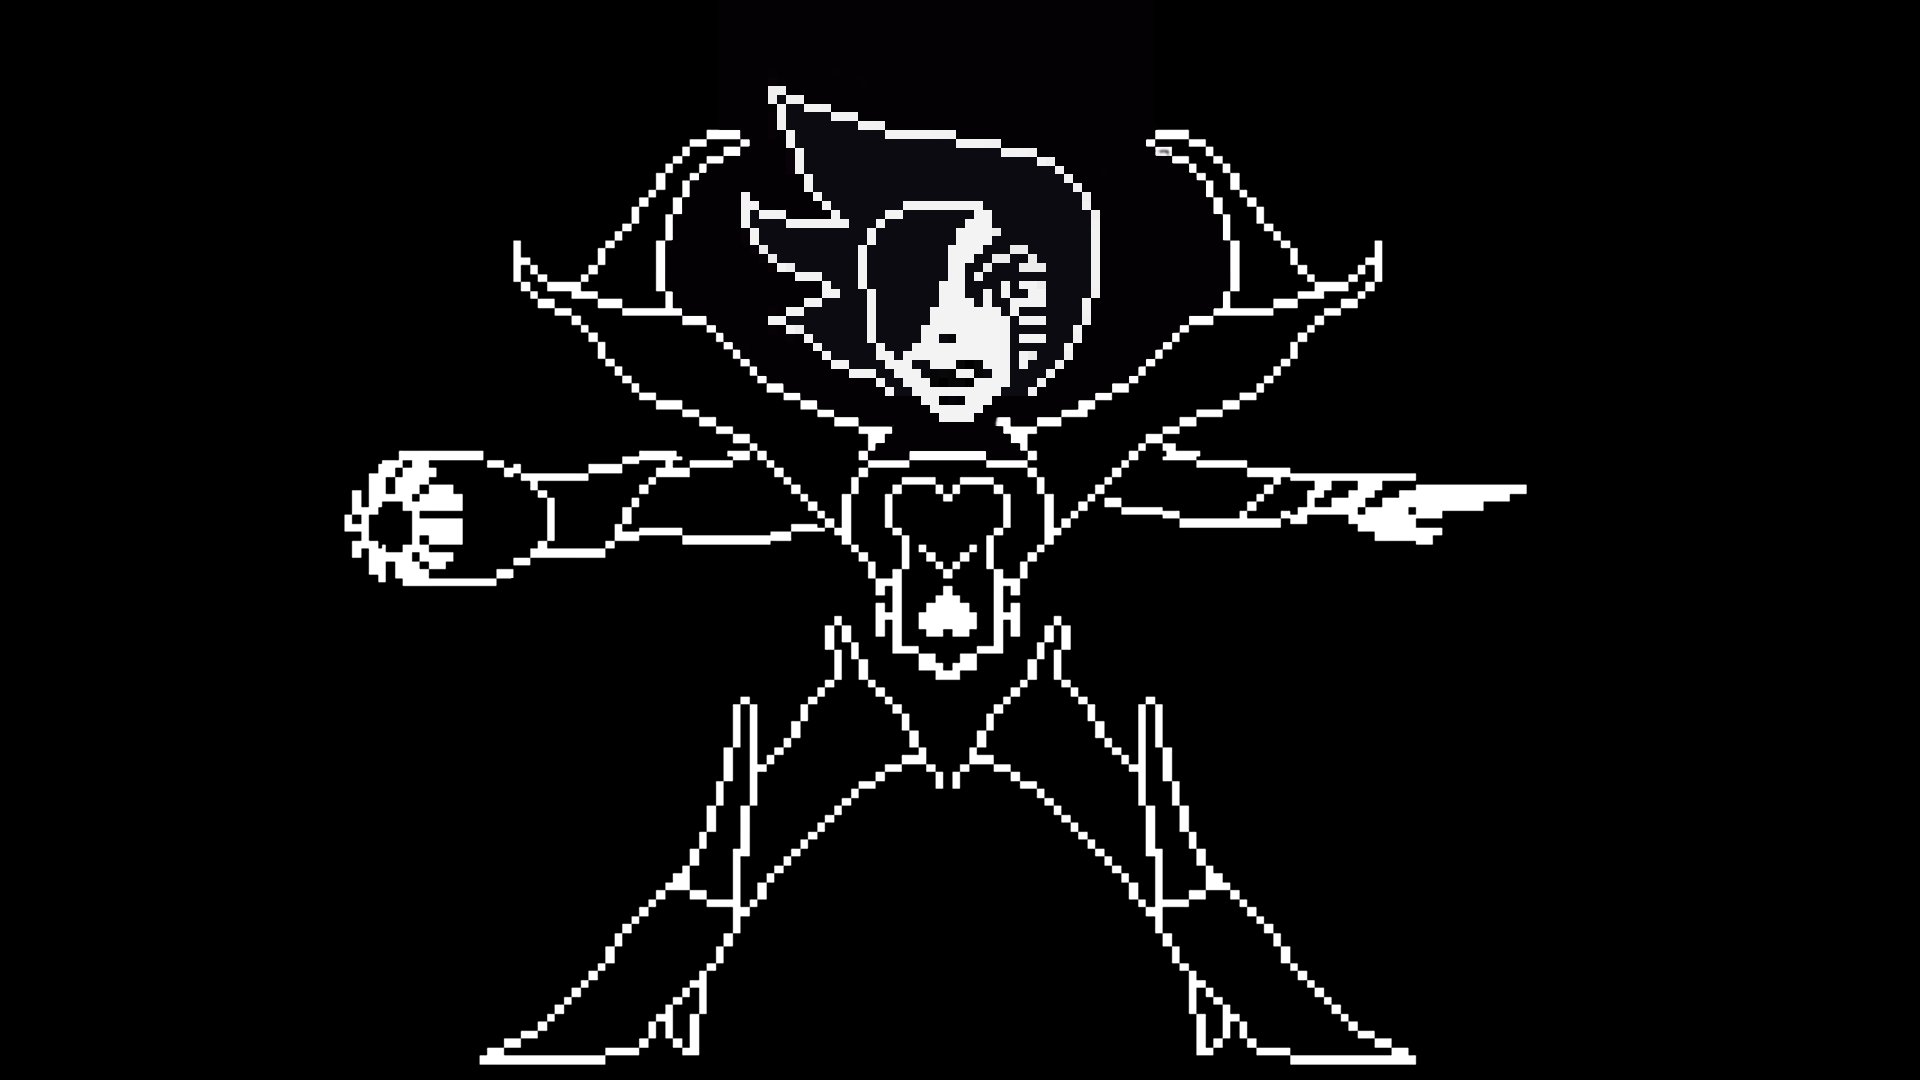
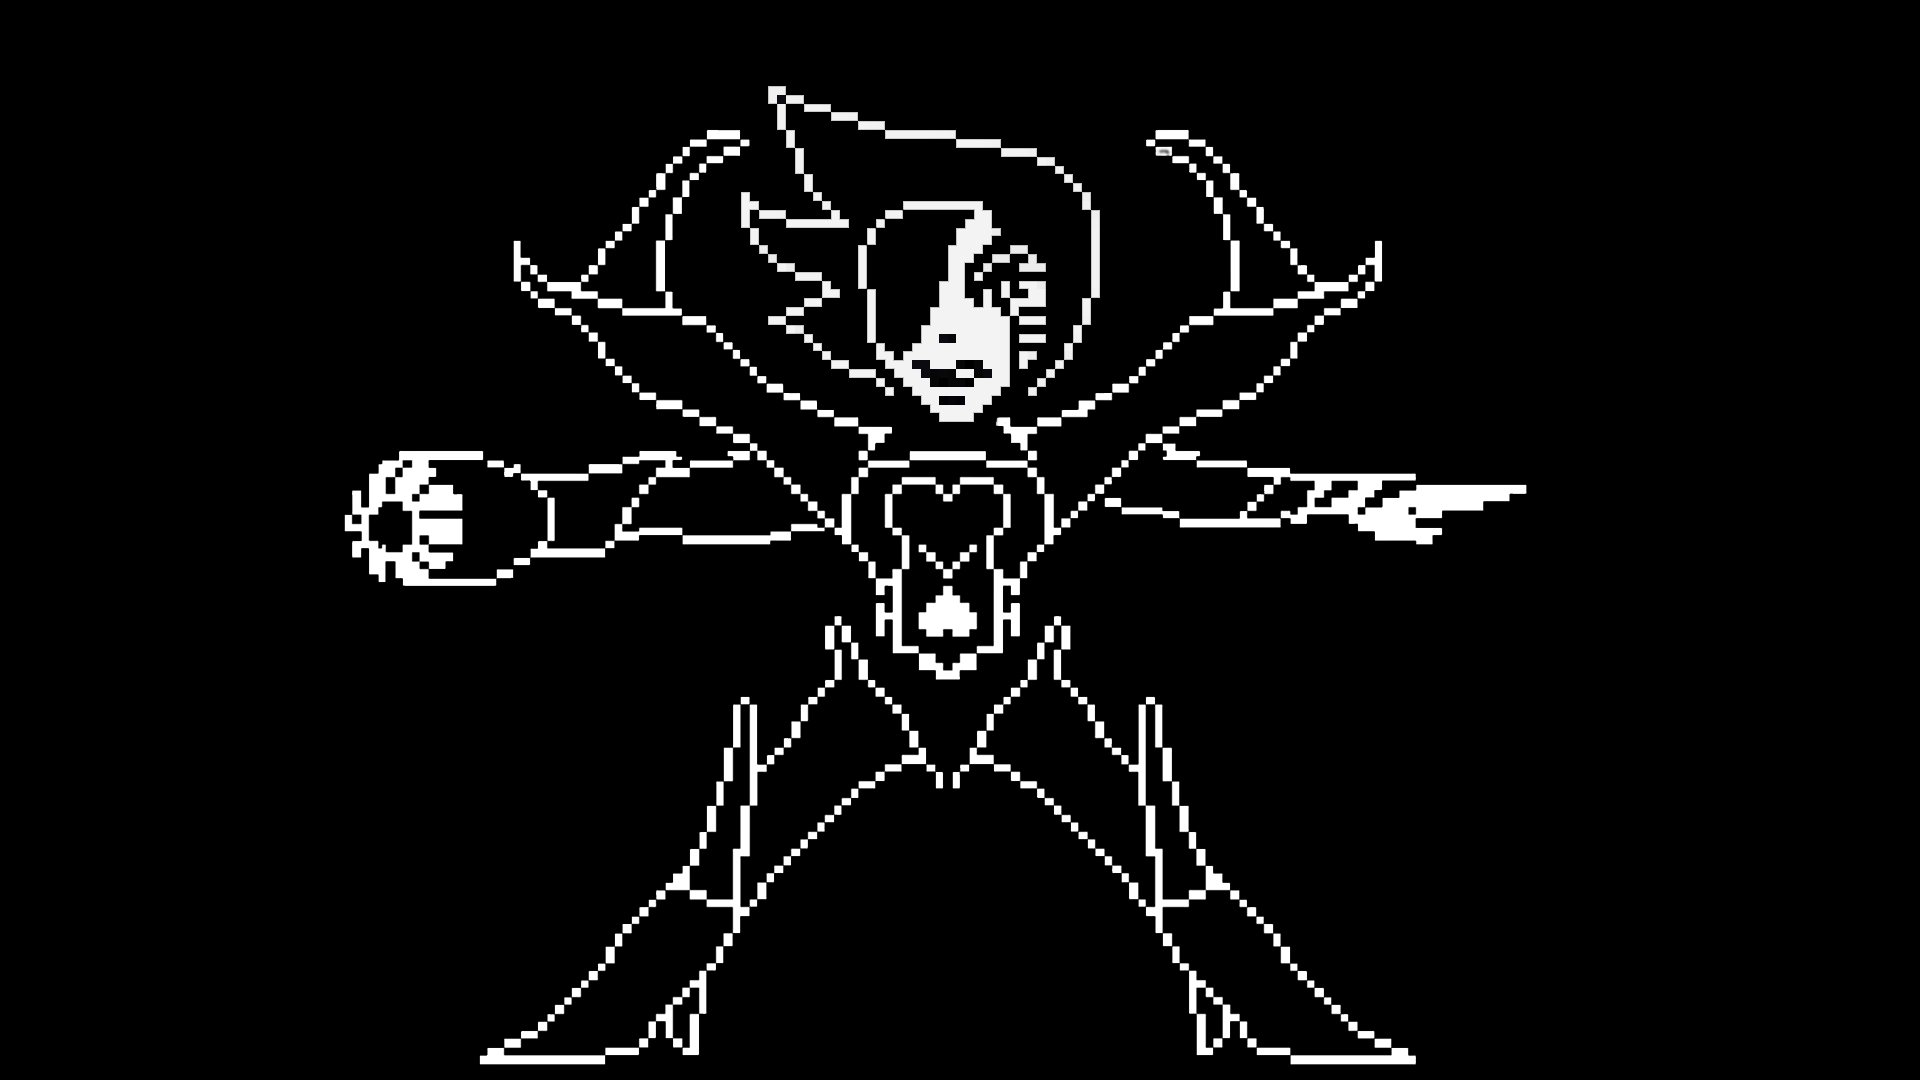
Fixed ending sprites and text

diff --git a/MettatonNeoFangame/src/css/style.css b/MettatonNeoFangame/src/css/style.css
@@ -373,6 +373,7 @@ audio {
     font-family: "mercy";
     font-size: 1vw;
     justify-content: center;
+    user-select: text;
 }
 
 .fullScreenButton {
@@ -445,6 +446,7 @@ audio {
     justify-content: center;
     margin: 1% 0 0 0;
     width: 3%;
+    user-select: text;
 }
 
 .heart {
@@ -821,6 +823,17 @@ audio {
     transition: all 0.4s ease-in-out !important;
 }
 
+.author {
+    align-items: center;
+    color: #f9812b;
+    display: flex;
+    font-family: "mercy";
+    font-size: 1vw;
+    justify-content: center;
+    margin: 0.5% 0 0 0;
+    user-select: text;
+}
+
 @keyframes beam {
     0% {
       opacity: 0;
@@ -1024,4 +1037,3 @@ audio {
         background-size: 40% 40%;
     }
 }
-

diff --git a/MettatonNeoFangame/src/js/menus.js b/MettatonNeoFangame/src/js/menus.js
@@ -770,7 +770,7 @@ function deathMtt() {
     <div class="stat">Food used : ${foodUsed.length === 0 ? 0 : foodUsed.join(" ")} , ${foodUsed.length}</div>
     <div class="stat">Time taken to complete the game : ${timeToComplete}s</div>
     <div class="stat">Turns taken to complete the game : ${turnsToComplete}</div>
-    <div class="stat">Press esc to restart</div>
+    <div class="stat">Press q to restart</div>
     </div>`;
   }, 1000);
   save(1,finished);

diff --git a/MettatonNeoFangame/src/index.html b/MettatonNeoFangame/src/index.html
@@ -34,6 +34,7 @@
     <p id="rangeValue"></p>
     </div>
     <div class="updatePageInfo">press q to restart the game</div>
+    <div class="author">made by spark</div>
     <div class="exitButton" onclick="window.close()">exit</div>
     <img src="img/fullscreen.png" class="fullScreenButton" onclick="enableFullScreen()">
     </div>

diff --git a/MettatonNeoFangame/src/main.js b/MettatonNeoFangame/src/main.js
@@ -15,7 +15,9 @@ let createWindow = () => {
     })
   
     mainWindow.loadFile(path.join(__dirname, "index.html"));
-    mainWindow.maximize()
+    // Comment when packaging
+    // mainWindow.openDevTools();
+    mainWindow.maximize();
 }
 
 app.on("ready", createWindow);

diff --git a/TODO.md b/TODO.md
@@ -1,8 +1,5 @@
 # TODOs and Bugs
 
-## TODOs
-1. Fix the ending sprites, the heads background is not transparent and is like light grey instead of black.
-
 ## Bugs
 1. The game doesn't play the main menu music after the player dies, it will play after the play if the player uses the input to change volume.
 2. IMPORTANT: The attack menu may sometimes just deal 0 damage to the enemy, and gets stuck at the start of the line. I don't know the specific conditions of the bug, it doesn't have a specific order when it happens like every 3rd attack or something like that. try testing the varaibles related to the attack menu to see what's wrong with it.

diff --git a/README.md b/README.md
@@ -25,4 +25,4 @@ Run the exe located in
 `MettatonNeoFangame/out/mettaton-neo-fangame-win32-x64/mettaton-neo-fangame.exe`
 
 ## Current state of the game
-**Game is playable but i'm currently working on remaking the game to make it better.**
+Finished
